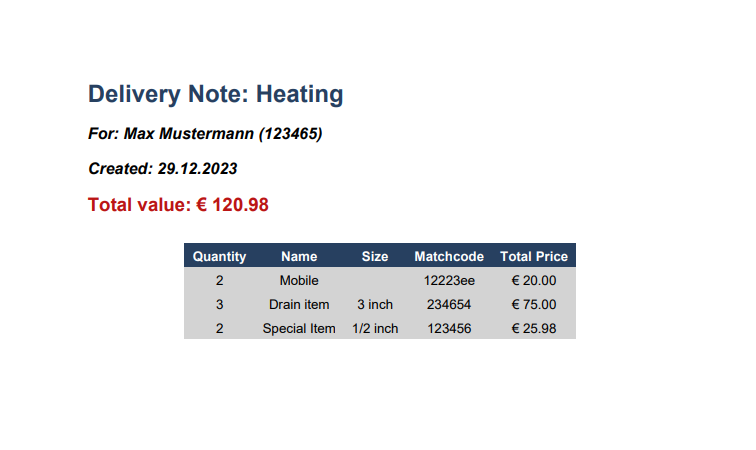
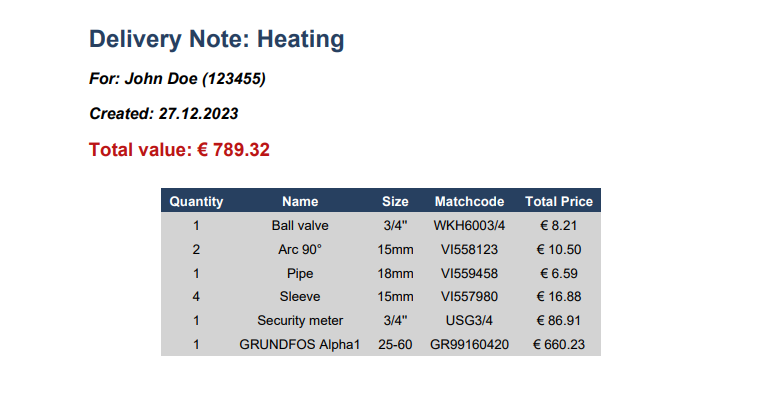
doc: update screenshots with real stock items

diff --git a/README.md b/README.md
@@ -316,7 +316,7 @@ Full CRUD is also available for stock items. By clicking edit, the selected stoc
 *Stock Items table*
 
 ![Edit stock item](docs/screenshots/edit_item.png)\
-*Edit a stock item*
+*Edit a stock item (tablet)*
 
 ### **QR Code**
 
